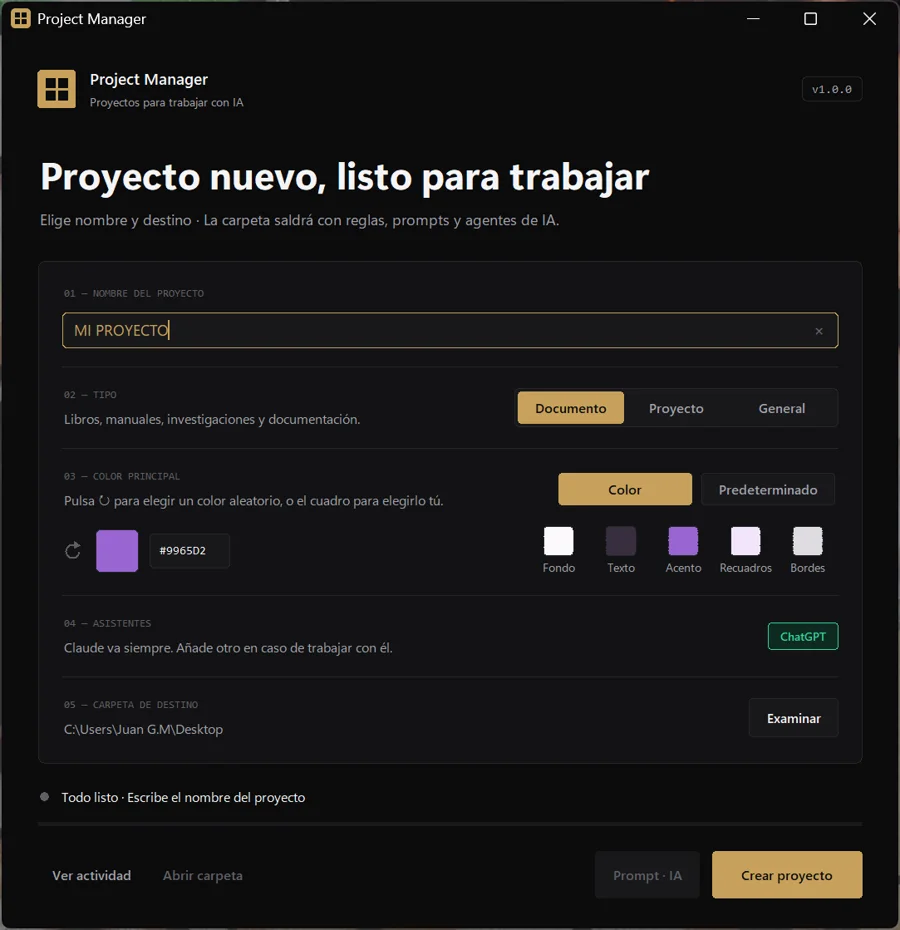
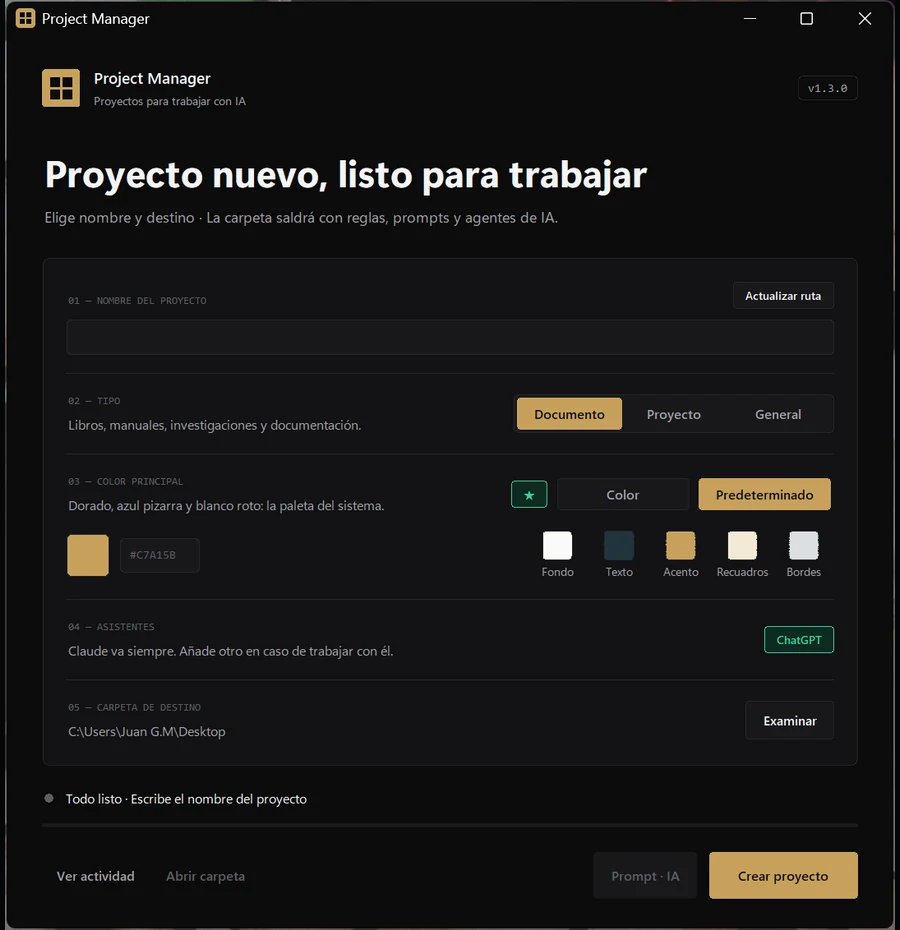
Project Manager v1.3.0 en el portfolio
Tarjeta en v1.3.0 con el manual de estilo para documentos e imágenes,
captura nueva de la ventana (con la ★) y la terminal de «Mi metodología»
con 19 pruebas y la versión 1.3.0.

Claude-Session: https://claude.ai/code/session_0172JoWgDbKvcaV5JxGEyxvp

diff --git a/assets/js/main.js b/assets/js/main.js
@@ -225,18 +225,18 @@ if (stepBtns.length && termBox) {
       'crear proyecto Documento ......... <span class="term__ok">✓</span>',
       'crear proyecto Proyecto .......... <span class="term__ok">✓</span>',
       'rellenar etiquetas [PROYECTO] .... <span class="term__ok">✓</span>',
-      'avisar si falta una plantilla .... <span class="term__ok">✓</span>',
+      'manual con imágenes .............. <span class="term__ok">✓</span>',
       '',
-      '<i>Ran 15 tests in 0.84s</i>',
-      '<span class="term__ok">OK · 15 pruebas superadas</span>',
+      '<i>Ran 19 tests in 0.84s</i>',
+      '<span class="term__ok">OK · 19 pruebas superadas</span>',
       '<span class="term__ok">✓ Probado a mano en Windows</span>',
     ]},
     { title: 'entrega', lines: [
-      '<span class="term__cmd">&gt; git commit -m "Versión 1.2.0"</span>',
+      '<span class="term__cmd">&gt; git commit -m "Versión 1.3.0"</span>',
       '<span class="term__cmd">&gt; git push</span>',
       '',
       '<span class="term__ok">✓ Documentación lista · README y CHANGELOG</span>',
-      '<span class="term__ok">✓ Publicado en GitHub · v1.2.0</span>',
+      '<span class="term__ok">✓ Publicado en GitHub · v1.3.0</span>',
       '<span class="term__ok">✓ Entregado al cliente</span>',
       '',
       '<i># Proyecto terminado. Siguiente idea.</i>',

diff --git a/index.html b/index.html
@@ -261,9 +261,9 @@
               <img src="/assets/img/projectmanager.webp" alt="" width="900" height="930" loading="lazy">
             </a>
             <div class="app__body">
-              <p class="kind">Aplicación de escritorio · v1.2.0</p>
+              <p class="kind">Aplicación de escritorio · v1.3.0</p>
               <h3 id="pm-title">Project Manager</h3>
-              <p>Crea en un clic la carpeta de un proyecto nuevo, lista para trabajar con IA: reglas, plan, estado, prompts y agentes. Es la base y la metodología que sigo a la hora de trabajar.</p>
+              <p>Crea en un clic la carpeta de un proyecto nuevo, lista para trabajar con IA: reglas, plan, estado, prompts y agentes. Es la base y la metodología que sigo a la hora de trabajar. Incluye un manual de estilo para documentos e imágenes.</p>
               <ul class="tags"><li>Python</li><li>Tkinter</li><li>Plantillas</li><li>Pruebas automáticas</li></ul>
               <a class="link" href="https://github.com/juangalisteo/projectmanager">Ver en GitHub</a>
             </div>
